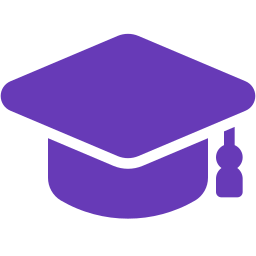
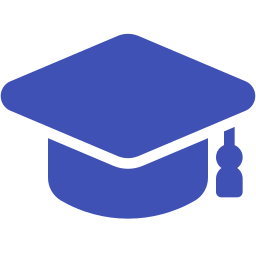
Definir cor padrão como variável #44

diff --git a/lib/views/vaga/vaga_lista.dart b/lib/views/vaga/vaga_lista.dart
@@ -1,6 +1,7 @@
 import 'package:flutter/material.dart';
 import 'package:mural_estagio/models/vaga.dart';
 import 'package:mural_estagio/services/vaga_service.dart';
+import 'package:mural_estagio/util/constantes.dart';
 import 'package:mural_estagio/views/vaga/vaga.dart';
 import 'package:mural_estagio/views/vaga/vaga_cadastro.dart';
 
@@ -41,7 +42,7 @@ class _VagaListaViewState extends State<VagaListaView> {
                         },
                         child: Container(
                           decoration: BoxDecoration(
-                            color: Colors.deepPurple.shade50,
+                            color: corPadrao.shade50,
                             borderRadius: BorderRadius.all(Radius.circular(20)),
                           ),
                           padding: EdgeInsets.all(8),
@@ -59,7 +60,7 @@ class _VagaListaViewState extends State<VagaListaView> {
                                 snapshot.data![index]!.cursos,
                                 style: TextStyle(
                                     fontSize: 21,
-                                    color: Colors.deepPurple,
+                                    color: corPadrao,
                                     fontWeight: FontWeight.bold),
                               ),
                             ),
@@ -73,7 +74,7 @@ class _VagaListaViewState extends State<VagaListaView> {
                                         .toString(),
                                 style: TextStyle(
                                     fontSize: 18,
-                                    color: Colors.deepPurple,
+                                    color: corPadrao,
                                     fontWeight: FontWeight.bold),
                               ),
                             ),
@@ -85,7 +86,7 @@ class _VagaListaViewState extends State<VagaListaView> {
                                 "Local: " + snapshot.data![index]!.local,
                                 style: TextStyle(
                                     fontSize: 18,
-                                    color: Colors.deepPurple,
+                                    color: corPadrao,
                                     fontWeight: FontWeight.bold),
                               ),
                             ),
@@ -97,7 +98,7 @@ class _VagaListaViewState extends State<VagaListaView> {
                                 "Turno: " + snapshot.data![index]!.periodo,
                                 style: TextStyle(
                                     fontSize: 18,
-                                    color: Colors.deepPurple,
+                                    color: corPadrao,
                                     fontWeight: FontWeight.bold),
                               ),
                             ),
@@ -109,7 +110,7 @@ class _VagaListaViewState extends State<VagaListaView> {
                                 "VER MAIS",
                                 style: TextStyle(
                                   fontSize: 20,
-                                  color: Colors.deepPurple,
+                                  color: corPadrao,
                                   fontWeight: FontWeight.bold,
                                 ),
                               ),

diff --git a/lib/views/sobre/sobre.dart b/lib/views/sobre/sobre.dart
@@ -1,4 +1,5 @@
 import 'package:flutter/material.dart';
+import 'package:mural_estagio/util/constantes.dart';
 
 class SobreView extends StatefulWidget {
   const SobreView({Key? key}) : super(key: key);
@@ -15,7 +16,7 @@ class _SobreViewState extends State<SobreView> {
         title: Text("Sobre"),
       ),
       body: Container(
-        color: Colors.deepPurple.shade50,
+        color: corPadrao.shade50,
         padding: EdgeInsets.only(top: 150),
         child: ListView(
           children: [
@@ -31,7 +32,7 @@ class _SobreViewState extends State<SobreView> {
               child: Text(
                 "Mural de estágios",
                 style: TextStyle(
-                  color: Colors.deepPurple,
+                  color: corPadrao,
                   fontSize: 30,
                   fontWeight: FontWeight.bold,
                 ),
@@ -44,7 +45,7 @@ class _SobreViewState extends State<SobreView> {
               child: Text(
                 "Desenvolvido por Lucas Oliveira:",
                 style: TextStyle(
-                  color: Colors.deepPurple,
+                  color: corPadrao,
                   fontSize: 15,
                   fontWeight: FontWeight.bold,
                 ),

diff --git a/lib/views/vaga/vaga.dart b/lib/views/vaga/vaga.dart
@@ -2,6 +2,7 @@ import 'package:flutter/material.dart';
 import 'package:mural_estagio/models/vaga.dart';
 import 'package:mural_estagio/services/estudante_service.dart';
 import 'package:mural_estagio/services/usuario_service.dart';
+import 'package:mural_estagio/util/constantes.dart';
 import 'package:mural_estagio/widgets/botao_padrao.dart';
 import 'package:mural_estagio/widgets/linha_tabela.dart';
 
@@ -29,7 +30,7 @@ class _VagaViewState extends State<VagaView> {
                 child: Text(
                   "Oportunidade de estágio:",
                   style: TextStyle(
-                    color: Colors.deepPurple,
+                    color: corPadrao,
                     fontWeight: FontWeight.bold,
                     fontSize: 25,
                   ),

diff --git a/lib/widgets/linha_tabela.dart b/lib/widgets/linha_tabela.dart
@@ -1,4 +1,5 @@
 import 'package:flutter/material.dart';
+import 'package:mural_estagio/util/constantes.dart';
 
 class LinhaTabela extends StatelessWidget {
   String title;
@@ -29,7 +30,7 @@ class LinhaTabela extends StatelessWidget {
                   fontSize: 16,
                 ),
               ),
-              color: Colors.deepPurple,
+              color: corPadrao,
             ),
             Container(
               padding: EdgeInsets.only(left: 5),
@@ -38,7 +39,7 @@ class LinhaTabela extends StatelessWidget {
                 textAlign: TextAlign.left,
                 style: TextStyle(
                   fontSize: 14,
-                  color: Colors.deepPurple,
+                  color: corPadrao,
                 ),
               ),
             )

diff --git a/lib/main.dart b/lib/main.dart
@@ -1,6 +1,7 @@
 import 'package:firebase_core/firebase_core.dart';
 import 'package:flutter/material.dart';
 import 'package:mural_estagio/services/auth_service.dart';
+import 'package:mural_estagio/util/constantes.dart';
 import 'package:mural_estagio/views/auth/auth_check.dart';
 import 'package:provider/provider.dart';
 
@@ -30,7 +31,7 @@ class MyApp extends StatelessWidget {
       title: 'Mural de estágio',
       debugShowCheckedModeBanner: false,
       theme: ThemeData(
-        primarySwatch: Colors.deepPurple,
+        primarySwatch: corPadrao,
       ),
       home: AuthCheck(),
     );

diff --git a/lib/util/constantes.dart b/lib/util/constantes.dart
@@ -1,0 +1,3 @@
+import 'package:flutter/material.dart';
+
+const MaterialColor corPadrao = Colors.indigo;
